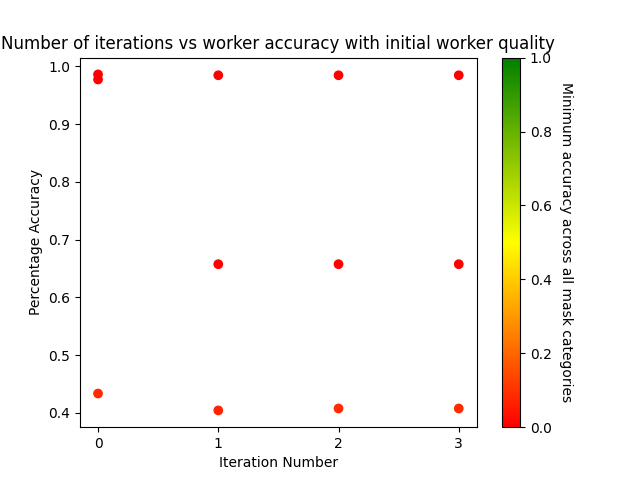
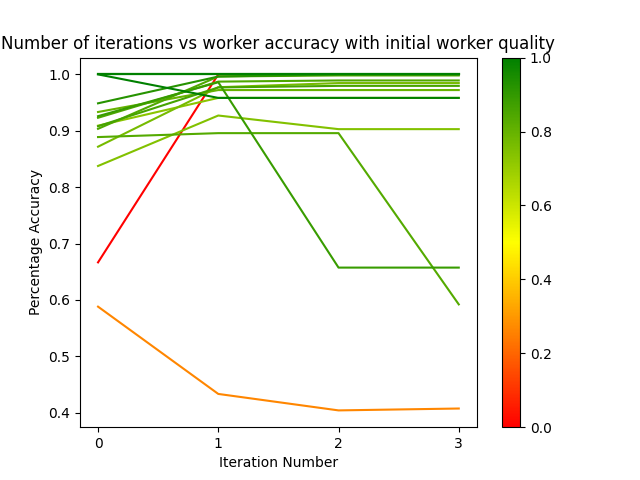
Started model analysis

diff --git a/src/model_analysis.py b/src/model_analysis.py
@@ -1,6 +1,7 @@
 from matplotlib.colors import LinearSegmentedColormap
 from os.path import join
 from collections import defaultdict
+from json import loads
 import pandas as pd
 import matplotlib.pyplot as plt
 import numpy as np
@@ -8,9 +9,11 @@ import numpy as np
 label_map = {
     "Wearing Mask Correctly": 0,
     "Wearing Mask Incorrectly": 1,
-    "Not Wearing Mask": 2
+    "Not Wearing Mask": 2,
+    "Duplicate": 3,
+    "Unverifiable": 4,
+    "Incorrect": 5
 }
-
 data_dir = '../data'
 analysis_dir = 'analysis'
 
@@ -53,34 +56,83 @@ def calculate_preliminary_model_accuracy(labels):
     quality = [[0, 0, 0], [0, 0, 0], [0, 0, 0]]
     for image in labels:
         # Update confusion matrix
+        num = label_map[labels[image]]
         if image in model_labels:
-            quality[label_map[labels[image]]][label_map[model_labels[image]]] += 1
+            quality[num][label_map[model_labels[image]]] += 1
         else:
-            num = label_map[labels[image]]
-            quality[num][(num + 1) % len(label_map)] += 1
+            quality[num][(num + 1) % 3] += 1
 
     return quality
 
+# Calculate model accuracy on classification
+def calculate_model_accuracy():
+    # Read model performance on validation
+    df = pd.read_csv(join(data_dir, analysis_dir, 'model_performance.csv'))
+    # Confusion matrix for 6 bounding box categories and 3 face categories
+    quality = [[0, 0, 0] for _ in range(6)]
+    # Stores average score for each bounding box category
+    avg_scores = [[0, 0] for _ in range(6)]
+    # Stores percentage of faces detected in an image
+    detected_faces = [0, 0]
+    # Iterate over predictions for each validation image
+    for _, row in df.iterrows():
+        # Read columns
+        scores = loads(row['PredictedScores'])
+        labels = loads(row['PredictedLabels'])
+        true_labels = loads(row['Labels'])
+        num_undetected = loads(row['UndetectedFaces'])
+        detected_faces[1] += num_undetected
+        # Iterate over bounding box labels
+        for i, label in enumerate(labels):
+            label = label_map[label]
+            true_label = label_map[true_labels[i]]
+            # Increment confusion matrix
+            quality[true_label][label] += 1
+            # Update scores
+            avg_scores[true_label][0] += scores[i]
+            avg_scores[true_label][1] += scores[i]
+            # Update detection rate
+            if true_label < 3:
+                detected_faces[0] += 1
+                detected_faces[1] += 1
+
+    return quality, [total / num for total, num in avg_scores], detected_faces[0] / detected_faces[1]
+
 # Compute accuracy statistics for workers and model
-def compute_preliminary_statistics(worker_qual, model_qual):
+def accuracy_bar_graph(worker_qual, model_qual, val_model_qual):
     # Aggregate worker results
     total_worker_qual = sum(np.array([cm for cm in worker_qual.values()]))
     # Compute worker accuracies
     worker_total = sum([sum(l) for l in total_worker_qual])
-    worker_accs = [round(l[i] / sum(l), 3) for (i, l) in enumerate(total_worker_qual)]
+    worker_accs = [l[i] / sum(l) for (i, l) in enumerate(total_worker_qual)]
     worker_correct = total_worker_qual[0][0] + total_worker_qual[1][1] + total_worker_qual[2][2]
-    worker_acc = round(worker_correct / worker_total, 3)
+    worker_accs.append(worker_correct / worker_total)
     # Compute model accuracies
     model_total = sum([sum(l) for l in model_qual])
-    model_accs = [round(l[i] / sum(l), 3) for (i, l) in enumerate(model_qual)]
+    model_accs = [l[i] / sum(l) for (i, l) in enumerate(model_qual)]
     model_correct = model_qual[0][0] + model_qual[1][1] + model_qual[2][2]
-    model_acc = round(model_correct / model_total, 3)
-    # Write to CSV
-    df = pd.DataFrame([['Worker', worker_acc, worker_accs[0], worker_accs[1], worker_accs[2]],
-        ['Model', model_acc, model_accs[0], model_accs[1], model_accs[2]]],
-        columns=['Predictor', 'Total Accuracy', 'Wearing Mask Correctly Accuracy',
-            'Wearing Mask Incorrectly Accuracy', 'Not Wearing Mask Accuracy'])
-    df.to_csv(join(data_dir, analysis_dir, 'worker_model_accuracies.csv'), index=False)
+    model_accs.append(model_correct / model_total)
+    # Compute validation model accuracies
+    val_model_total = sum([sum(l) for l in val_model_qual[:3]])
+    val_model_accs = [l[i] / sum(l) for (i, l) in enumerate(val_model_qual[:3])]
+    val_model_correct = val_model_qual[0][0] + val_model_qual[1][1] + val_model_qual[2][2]
+    val_model_accs.append(val_model_correct / val_model_total)
+
+    # Plot graph
+    labels = ['WMC Accuracy', 'WMI Accuracy', 'NWM Accuracy', 'Total Accuracy']
+    x = np.arange(len(labels))
+    width = 0.4
+
+    plt.bar(x-width/2, worker_accs, width, label='Worker')
+    plt.bar(x, model_accs, width, label='Model Training')
+    plt.bar(x+width/2, val_model_accs, width,  label='Model Validation')
+    plt.legend()
+    plt.xticks(x, labels)
+    plt.title("Images labeled vs Accuracy of Workers and FasterRCNN model")
+    plt.xlabel("Categories")
+    plt.ylabel("Percentage Accuracy")
+    plt.savefig(join(data_dir, analysis_dir, 'worker_model_accuracies.png'))
+    plt.show()
 
 
 # Draw scatter plot of workers and model with random and majority baseline
@@ -114,7 +166,7 @@ def preliminary_scatter_plot(worker_qual, model_qual):
     correct = m[0][0] + m[1][1] + m[2][2]
     # Compute baselines
     majority_baseline = max([sum(l) for l in m]) / total
-    random_baseline = 1 / len(label_map)
+    random_baseline = 1 / 3
     min_acc = min([l[i] / sum(l) for i, l in enumerate(m)])
     # Plot graph
     cmap = LinearSegmentedColormap.from_list("", ["red","yellow","green"])
@@ -136,20 +188,6 @@ def preliminary_scatter_plot(worker_qual, model_qual):
     plt.savefig(join(data_dir, analysis_dir, 'worker_model_quality.png'))
     plt.show()
 
-# Calculate model accuracy on segmentation and classification of validation images
-def calculate_model_accuracy():
-    # Read model performance output
-    df = pd.read_csv(join(data_dir, analysis_dir, 'model_performance.csv'))
-    quality = [[0, 0, 0], [0, 0, 0], [0, 0, 0]]
-    for i, row in df.iterrows():
-        # Update confusion matrix
-        if image in model_labels:
-            quality[label_map[labels[image]]][label_map[model_labels[image]]] += 1
-        else:
-            num = label_map[labels[image]]
-            quality[num][(num + 1) % len(label_map)] += 1
-
-    return quality
 
 def main():
     # Read true labels into dictionary
@@ -157,8 +195,9 @@ def main():
     labels = {k: v for (k, v) in df[['Image', 'Label']].values.tolist()}
     worker_qual = calculate_worker_quality(labels)
     model_qual = calculate_preliminary_model_accuracy(labels)
-    compute_preliminary_statistics(worker_qual, model_qual)
-    preliminary_scatter_plot(worker_qual, model_qual)
+    val_model_qual, scores, detect_rate = calculate_model_accuracy()
+    accuracy_bar_graph(worker_qual, model_qual, val_model_qual)
+    # preliminary_scatter_plot(worker_qual, model_qual)
 
 if __name__ == '__main__':
     main()

diff --git a/src/aggregation_analysis.py b/src/aggregation_analysis.py
@@ -32,7 +32,7 @@ def compute_accuracies(df, labels):
         (cm[0][0] + cm[1][1] + cm[2][2]) / sum([sum(l) for l in cm])
     )
 
-# Plot accuracy vs iteration given dataframes of predicted and true labels
+# Plot iteration number vs accuracy given dataframes of predicted and true labels
 # Start with initial quality specified by worker_qual
 def accuracy_iteration_plot(result_df, true_df, worker_qual):
     init = worker_qual != None
@@ -77,7 +77,7 @@ def accuracy_iteration_plot(result_df, true_df, worker_qual):
         plt.savefig(join(data_dir, analysis_dir, 'accuracy_iteration_without_initial.png'))
     plt.show()
 
-# Plot individual worker_accuracy vs iteration given dataframes of predicted and true labels
+# Plot iteration number vs individual worker_accuracy given dataframes of predicted and true labels
 # Start with initial quality specified by worker_qual
 def worker_accuracy_iteration_plot(result_df, true_df, worker_qual):
     init = worker_qual != None
@@ -136,7 +136,7 @@ def worker_accuracy_iteration_plot(result_df, true_df, worker_qual):
         plt.title("Number of iterations vs worker accuracy with initial worker quality")
         plt.savefig(join(data_dir, analysis_dir, 'worker_accuracy_iteration_with_initial.png'))
     else:
-        plt.title("Number of iterations vs worker accuracy without initial worker quality")
+        plt.title("Number of iterations vs worker accuracy w/o initial worker quality")
         plt.savefig(join(data_dir, analysis_dir, 'worker_accuracy_iteration_without_initial.png'))
     plt.show()
     
@@ -149,9 +149,8 @@ def main():
     df = df.set_index(['Image'])
     # Compute worker quality and confusion matrix from gold standard labels
     _, cm = worker_quality(result_df)
-    # 1 iteration EM with gold standard label performance as initial quality
-    #accuracy_iteration_plot(result_df, df, cm)
-    #accuracy_iteration_plot(result_df, df, None)
+    accuracy_iteration_plot(result_df, df, cm)
+    accuracy_iteration_plot(result_df, df, None)
     worker_accuracy_iteration_plot(result_df, df, cm)
     worker_accuracy_iteration_plot(result_df, df, None)
 

diff --git a/src/model_validation.py b/src/model_validation.py
@@ -16,7 +16,6 @@ bounding_box_label_map = {
     4: "Duplicate",
     5: "Unverifiable",
     6: "Incorrect",
-
 }
 
 color_map = {

diff --git a/docs/README.md b/docs/README.md
@@ -6,11 +6,15 @@ Our project, WYM - Wear Your Mask, is a live application that utilizes camera re
 - classification_images: directory containing all input images for classification HITs
 - validation_images: directory containing validation images of crowds to test our model on
 - analysis: directory containing analysis files after performance quality control and aggregation
+    - accuracy_iteration_with_initial.png: plot of iteration number vs accuracy with gold standard quality as initial quality
+    - accuracy_iteration_without_initial.png: plot of iteration number vs accuracy assuming all workers are initially perfect
     - gold_standard_quality.csv: quality control output for every worker with tasks completed, average time spent on each task, accuracy for each face category, total accuracy, and whether or not the worker is a good worker
     - image_labels.csv: aggregation output from running EM with gold standard performance as initial quality for 1 iteration
     - model_image_labels.csv: model predictions on labels for classification images
     - model_image_preds.csv: model predictions on validation images including a list of bounding boxes, a list of labels corresponding to each bounding box, and a list a scores that the model assigns to each bounding box prediction
     - model_performance.csv: model performance on validation images containing bounding boxes, predicted labels, scores for prediction, true labels, and number of undetected faces identified by user
+    - worker_accuracy_iteration_with_initial.png: plot of iteration number vs individual worker accuracy with gold standard quality as initial quality
+    - worker_accuracy_iteration_without_initial.png: plot of iteration number vs individual worker accuracy assuming all workers are initially perfect
     - worker_model_accuracies.csv: accuracies of all workers combined and our model on labeling classification images
     - worker_model_quality.png: graph of classification images labeled vs accuracy of workers and our FasterRCNN model
 - bounding_hit_input(0-1).csv: generated CSV input for bounding box HITs
@@ -169,9 +173,15 @@ Refer to README.md in src directory for information on how to run code
     - <i>calculate_preliminary_model_accuracy(labels)</i>: Calculate model confusion matrix from data/analysis.model_image_labels.csv
         - labels: dictionary mapping image file name to label
         - output: confusion matrices for model
-    - <i>compute_preliminary_statistics(worker_qual, model_qual)</i>: Compute accuracy statistics for workers and model:
+    - <i>calculate_model_accuracy()</i>: Calculate model confusion matrices, average scores, and percentage face detection
+        - output:
+            - 6 x 3 confusion matrix for 6 bounding box categories and 3 face categories
+            - List of 6 average scores corresponding to each bounding box category
+            - Percentage of faces detected on average
+    - <i>accuracy_bar_graph(worker_qual, model_qual, val_model_qual)</i>: Compute accuracy statistics for workers and model:
         - worker_qual: confusion matrices for each worker
         - model_qual: model confusion matrix
+        - val_model_qual: validation model confusion matrix
     - <i>preliminary_scatter_plot(worker_qual, model_qual)</i>: Plot worker and model quality along with baselines
         - worker_qual: confusion matrices for each worker
         - model_qual: model confusion matrix
@@ -194,6 +204,19 @@ Refer to README.md in src directory for information on how to run code
         - df: dataframe containing worker gold standard performance data
     - <i>def worker_time_accuracy_scatter_plot(df)</i>: Plots average time spent on each task vs accuracy of each worker
         - df: dataframe containing worker gold standard performance data
+- <b>aggregation_analysis</b>: Computes accuracy on a sample of 500 classification images with true labels for different versions of the EM algorithm
+    - <i>compute_accuracies(df, labels)</i>: Computers accuracy given true labels and predicted labels
+        - df: dataframe containing true labels
+        - labels: dictionary containing predicted labels from workers
+    - <i>accuracy_iteration_plot(result_df, true_df, worker_qual)</i> Plots iteration number vs accuracy
+        - result_df: dataframe containing results from classification HITs
+        - true_df: dataframe containing true labels
+        - worker_qual: initial worker quality to use for EM algorithm
+    - <i>worker_accuracy_iteration_plot(result_df, true_df, worker_qual)</i> Plots iteration number vs individual worker accuracy
+        - result_df: dataframe containing results from classification HITs
+        - true_df: dataframe containing true labels
+        - worker_qual: initial worker quality to use for EM algorithm
+
 ## hit_templates
 HTML code for HIT templates
 - bounding_box_mockup.html: Template for face bounding box HIT task
@@ -300,7 +323,13 @@ With this, we can determine how well the model can recognize faces, how often it
     2. Plots tasks completed vs accuracy
     3. Plots bar graph of average worker accuracy for each category
     4. Plots average time spent on each task vs accuracy
-4. > python model_analysis.py
+5. > python aggregation_analysis.py
+    1. Reads the classification hit output as well as true labels for 500 images in the classification hit output
+    2. Runs the EM algorithm with gold standard label performance as initial worker quality and plots iteration number vs accuracy on the 500 images
+    3. Runs the EM algorithm without initial worker quality (assumes workers are initially perfect) and plots iteration number vs accuracy on the 500 images
+    4. Runs the EM algorithm with gold standard label performance as initial worker quality and plots iteration number vs individual worker accuracy on the 500 images
+    5. Runs the EM algorithm without initial worker quality (assumes workers are initially perfect) and plots iteration number vs individual worker accuracy on the 500 images
+6. > python model_analysis.py
     1. Reads true classification image labels from data/analysis/image_labels.csv
     2. Compute worker confusion matrices by comparing results in data/classification_hit_output.csv with true labels
     3. Compute model confusion matrix by comparing data/analysis/model_image_labels.csv and true image labels
